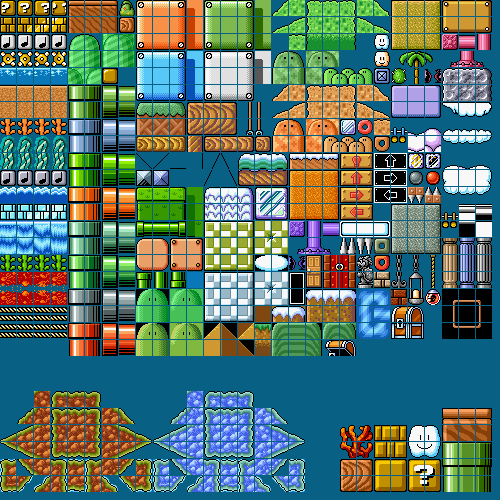
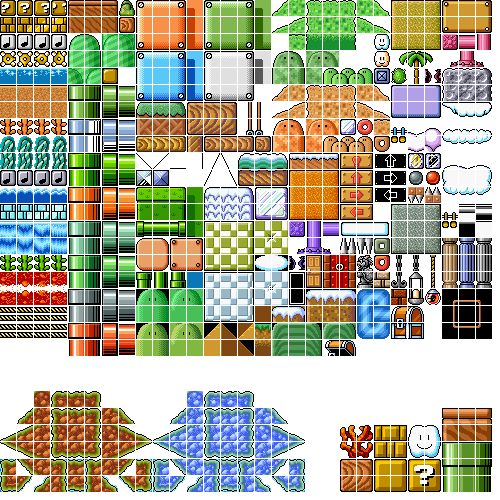
Add shining in bricks

diff --git a/src/map.js b/src/map.js
@@ -1,29 +1,79 @@
+const SHINE_CYCLE = [
+  [0, 17, 16, 16],
+  [17, 17, 16, 16],
+  [34, 17, 16, 16],
+  [51, 17, 16, 16],
+  [34, 17, 16, 16],
+  [17, 17, 16, 16]
+];
+
 export default class Map {
   constructor(ctx) {
     this.ctx = ctx;
     this.tileMap = [0, 0, 0, 0, 0, 0, 0, 0, 0, 0, 0, 0, 0, 0, 0, 0, 0, 0, 0, 0, 0, 0, 0, 0, 0, 0, 0, 0,
-                    1, 1, 0, 0, 0, 1, 1, 1, 0, 0, 0, 0, 1, 0, 0, 1, 1, 1, 0, 1, 1, 1, 1, 1, 1, 1, 1, 0,
-                    0, 1, 1, 0, 0, 0, 1, 1, 1, 1, 1, 1, 1, 0, 1, 1, 0, 1, 1, 1, 1, 1, 1, 1, 1, 1, 1, 1,
-                    0, 0, 1, 1, 1, 1, 0, 0, 0, 0, 0, 0, 1, 0, 0, 0, 0, 1, 0, 0, 0, 0, 0, 0, 0, 0, 0, 0,
-                    0, 0, 0, 0, 0, 0, 0, 0, 0, 0, 1, 1, 1, 0, 0, 1, 1, 1, 1, 1, 1, 1, 1, 1, 1, 1, 1, 1,
-                    1, 1, 0, 0, 0, 0, 1, 1, 1, 1, 1, 1, 1, 1, 1, 1, 1, 0, 0, 1, 1, 1, 1, 1, 1, 1, 1, 1,
-                    0, 1, 1, 0, 1, 0, 0, 0, 0, 0, 0, 0, 0, 0, 0, 0, 0, 0, 0, 0, 0, 0, 0, 0, 0, 0, 0, 0,
-                    0, 0, 1, 1, 1, 1, 1, 0, 1, 1, 1, 1, 1, 1, 1, 0, 0, 0, 0, 0, 0, 0, 0, 0, 0, 0, 0, 0,
-                    1, 0, 0, 0, 0, 0, 0, 0, 0, 0, 0, 0, 0, 0, 1, 1, 1, 1, 1, 1, 1, 1, 1, 1, 1, 1, 1, 0,
-                    1, 1, 1, 1, 1, 1, 1, 1, 1, 1, 1, 1, 1, 1, 1, 1, 1, 1, 1, 1, 1, 1, 1, 1, 1, 1, 1, 1,
-                    0, 1, 1, 0, 1, 0, 0, 0, 0, 0, 0, 0, 0, 0, 0, 0, 0, 0, 0, 0, 0, 0, 0, 0, 0, 0, 0, 0,
-                    0, 0, 1, 1, 1, 1, 1, 0, 1, 1, 1, 1, 1, 1, 1, 0, 0, 0, 0, 0, 0, 0, 0, 0, 0, 0, 0, 0,
-                    1, 0, 0, 0, 0, 0, 0, 0, 0, 0, 0, 0, 0, 0, 1, 1, 1, 1, 1, 1, 1, 1, 1, 1, 1, 1, 1, 0,
+                    1, 1, 1, 1, 0, 1, 1, 1, 0, 0, 0, 0, 1, 0, 0, 0, 0, 0, 0, 1, 1, 1, 1, 1, 0, 0, 1, 1,
+                    0, 0, 0, 0, 0, 0, 0, 1, 1, 1, 1, 1, 1, 1, 1, 0, 0, 1, 1, 1, 0, 0, 0, 0, 0, 0, 0, 0,
+                    1, 1, 1, 1, 1, 1, 0, 0, 0, 0, 0, 0, 0, 0, 0, 0, 0, 0, 0, 1, 1, 1, 1, 1, 0, 0, 1, 1,
+                    0, 0, 0, 0, 0, 0, 0, 0, 0, 0, 1, 1, 1, 0, 0, 1, 1, 1, 0, 0, 0, 0, 0, 0, 0, 0, 0, 0,
+                    1, 1, 0, 0, 0, 0, 1, 1, 1, 1, 1, 1, 1, 1, 1, 1, 1, 0, 0, 0, 1, 1, 1, 1, 0, 0, 0, 0,
+                    0, 1, 1, 0, 0, 0, 0, 0, 0, 0, 0, 0, 0, 0, 0, 0, 0, 0, 1, 1, 1, 0, 0, 0, 0, 0, 1, 1,
+                    0, 0, 1, 1, 1, 1, 0, 0, 1, 1, 1, 1, 1, 1, 1, 0, 0, 0, 0, 0, 0, 0, 0, 0, 0, 0, 0, 0,
+                    1, 0, 0, 0, 0, 0, 0, 0, 0, 0, 0, 0, 0, 0, 1, 1, 1, 1, 1, 1, 1, 1, 1, 1, 0, 0, 1, 0,
+                    1, 1, 1, 1, 1, 1, 1, 1, 1, 1, 1, 1, 1, 0, 0, 0, 0, 0, 0, 0, 0, 0, 0, 0, 0, 0, 1, 1,
+                    0, 0, 0, 0, 1, 0, 0, 0, 0, 0, 0, 0, 0, 0, 1, 1, 1, 1, 1, 1, 1, 1, 1, 1, 0, 0, 0, 0,
+                    0, 0, 0, 0, 1, 1, 1, 0, 0, 1, 1, 1, 1, 1, 1, 0, 0, 0, 0, 0, 0, 0, 0, 0, 0, 0, 0, 0,
+                    1, 1, 1, 0, 0, 0, 0, 0, 0, 0, 0, 0, 0, 0, 0, 0, 0, 1, 1, 1, 1, 1, 1, 1, 0, 0, 0, 0,
                     1, 1, 1, 1, 1, 1, 1, 1, 1, 1, 1, 1, 1, 1, 1, 1, 1, 1, 1, 1, 1, 1, 1, 1, 1, 1, 1, 1];
+    this.assetMap = [0, 0, 0, 0, 0, 0, 0, 0, 0, 0, 0, 0, 0, 0, 0, 0, 0, 0, 0, 0, 0, 0, 0, 0, 0, 0, 0, 0,
+                     1, 1, 1, 1, 0, 1, 1, 1, 0, 0, 0, 0, 1, 0, 0, 0, 0, 0, 0, 1, 1, 1, 1, 1, 0, 0, 1, 1,
+                     0, 0, 0, 0, 0, 0, 0, 1, 1, 1, 1, 1, 1, 1, 1, 0, 0, 1, 1, 1, 0, 0, 0, 0, 0, 0, 0, 0,
+                     1, 1, 1, 1, 1, 1, 0, 0, 0, 0, 0, 0, 0, 0, 0, 0, 0, 0, 0, 1, 1, 1, 1, 1, 0, 0, 1, 1,
+                     0, 0, 0, 0, 0, 0, 0, 0, 0, 0, 1, 1, 1, 0, 0, 1, 1, 1, 0, 0, 0, 0, 0, 0, 0, 0, 0, 0,
+                     1, 1, 0, 0, 0, 0, 1, 1, 1, 1, 1, 1, 1, 1, 1, 1, 1, 0, 0, 0, 1, 1, 1, 1, 0, 0, 0, 0,
+                     0, 1, 1, 0, 0, 0, 0, 0, 0, 0, 0, 0, 0, 0, 0, 0, 0, 0, 1, 1, 1, 0, 0, 0, 0, 0, 1, 1,
+                     0, 0, 1, 1, 1, 1, 0, 0, 1, 1, 1, 1, 1, 1, 1, 0, 0, 0, 0, 0, 0, 0, 0, 0, 0, 0, 0, 0,
+                     1, 0, 0, 0, 0, 0, 0, 0, 0, 0, 0, 0, 0, 0, 1, 1, 1, 1, 1, 1, 1, 1, 1, 1, 0, 0, 1, 0,
+                     1, 1, 1, 1, 1, 1, 1, 1, 1, 1, 1, 1, 1, 0, 0, 0, 0, 0, 0, 0, 0, 0, 0, 0, 0, 0, 1, 1,
+                     0, 0, 0, 0, 1, 0, 0, 0, 0, 0, 0, 0, 0, 0, 1, 1, 1, 1, 1, 1, 1, 1, 1, 1, 0, 0, 0, 0,
+                     0, 0, 0, 0, 1, 1, 1, 0, 0, 1, 1, 1, 1, 1, 1, 0, 0, 0, 0, 0, 0, 0, 0, 0, 0, 0, 0, 0,
+                     1, 1, 1, 0, 0, 0, 0, 0, 0, 0, 0, 0, 0, 0, 0, 0, 0, 1, 1, 1, 1, 1, 1, 1, 0, 0, 0, 0,
+                     1, 1, 1, 1, 1, 1, 1, 1, 1, 1, 1, 1, 1, 1, 1, 1, 1, 1, 1, 1, 1, 1, 1, 1, 1, 1, 1, 1];               
     this.tileSize = 50;
     this.rows = 14;
     this.cols = 28;
+
+    this.frameCount = {
+      shine: 0,
+    };
+
+    this.image = this.getImage('./assets/tile_map.png');
+  }
+
+  getImage(imagePath) {
+    const image = new Image();
+    image.src = imagePath;
+    return image;
+  }
+
+  redraw(x1, y1, x2, y2, tile) {
+    this.ctx.drawImage(this.image, x1, y1, x2, y2, (tile % this.cols) * this.tileSize, Math.floor(tile / this.cols) * this.tileSize, this.tileSize, this.tileSize);
+  }
+
+  shine(tile) {
+    this.redraw(...SHINE_CYCLE[Math.floor(this.frameCount.shine / 8)], tile);
+    this.frameCount.shine++;
+    if (this.frameCount.shine === 48) this.frameCount.shine = 0;
   }
 
   draw() {
-    for (let tile = 0; tile < this.tileMap.length; tile++) {
-      this.ctx.fillStyle = this.tileMap[tile] === 0 ? "#E0FFFF" : "black";
-      this.ctx.fillRect((tile % this.cols) * this.tileSize, Math.floor(tile / this.cols) * this.tileSize, this.tileSize, this.tileSize);
+    for (let tile = 0; tile < this.assetMap.length; tile++) {
+      if (this.assetMap[tile] === 0) {
+        this.ctx.fillStyle = this.assetMap[tile] === 0 ? "pink" : "black";
+        this.ctx.fillRect((tile % this.cols) * this.tileSize, Math.floor(tile / this.cols) * this.tileSize, this.tileSize, this.tileSize);
+      } else {
+        // this.shine(tile);
+        this.redraw(...SHINE_CYCLE[0], tile);
+      }
     }
   }
 }

diff --git a/src/game.js b/src/game.js
@@ -27,14 +27,6 @@ export default class Game {
     this.players = [this.P1, this.P2];
 
     this.collision = new Collision(this.map, this.players, this.timer);
-
-    this.gif = this.loadGif();
-  }
-
-  loadGif() {
-    const myGif = new Image();
-    myGif.src = "./assets/victoryroyale.gif";
-    return myGif;
   }
   
   initialize() {
@@ -63,7 +55,6 @@ export default class Game {
     const winner = this.getWinner();
 
     if (this.timer.gameover) {
-      // this.ctx.drawImage(this.gif, 0, 0, 1400, 700);
       this.ctx.clearRect(0, 0, 1400, 700);
       this.ctx.font = "50px Arial";
       this.ctx.fillStyle = "red";

diff --git a/src/players/player.js b/src/players/player.js
@@ -1,6 +1,6 @@
 // Player constants
 const CONSTANTS = {
-  SPEED: 1.5,
+  SPEED: 1.2,
   JUMP_HEIGHT: 20.0,
   FASTFALL_SPEED: 5.0,
   DASH_SPEED: 20.0,
